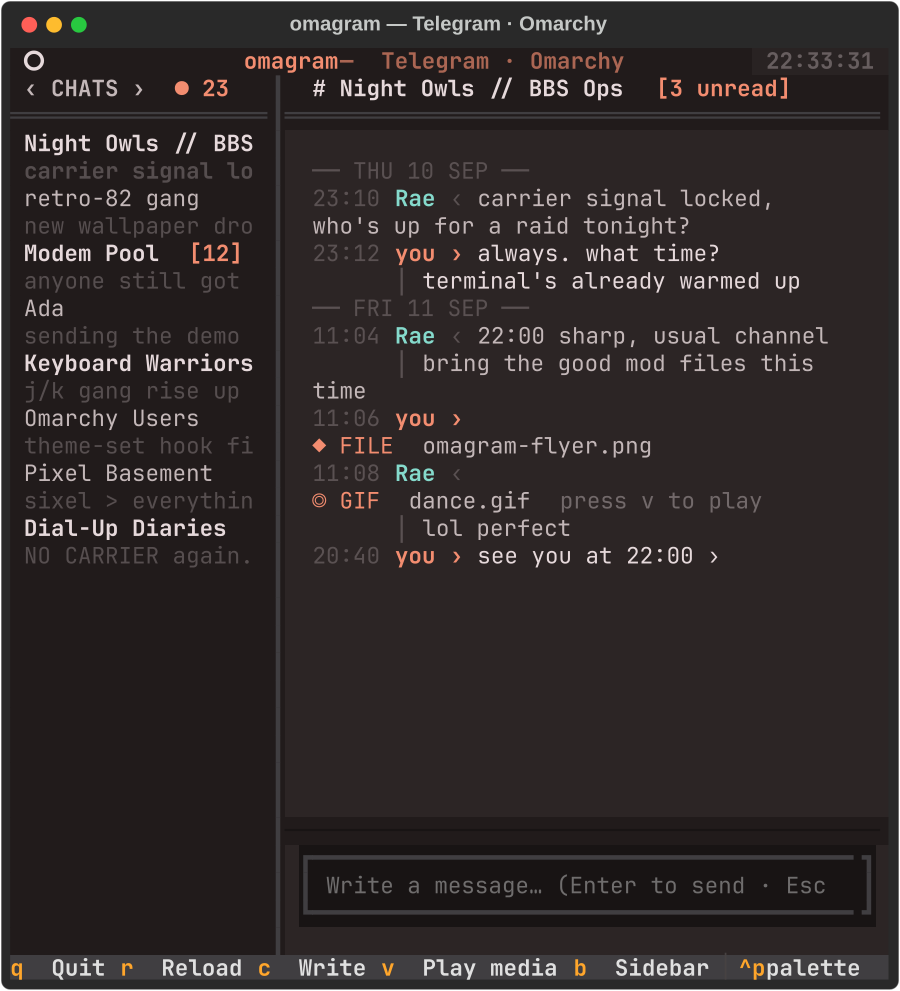
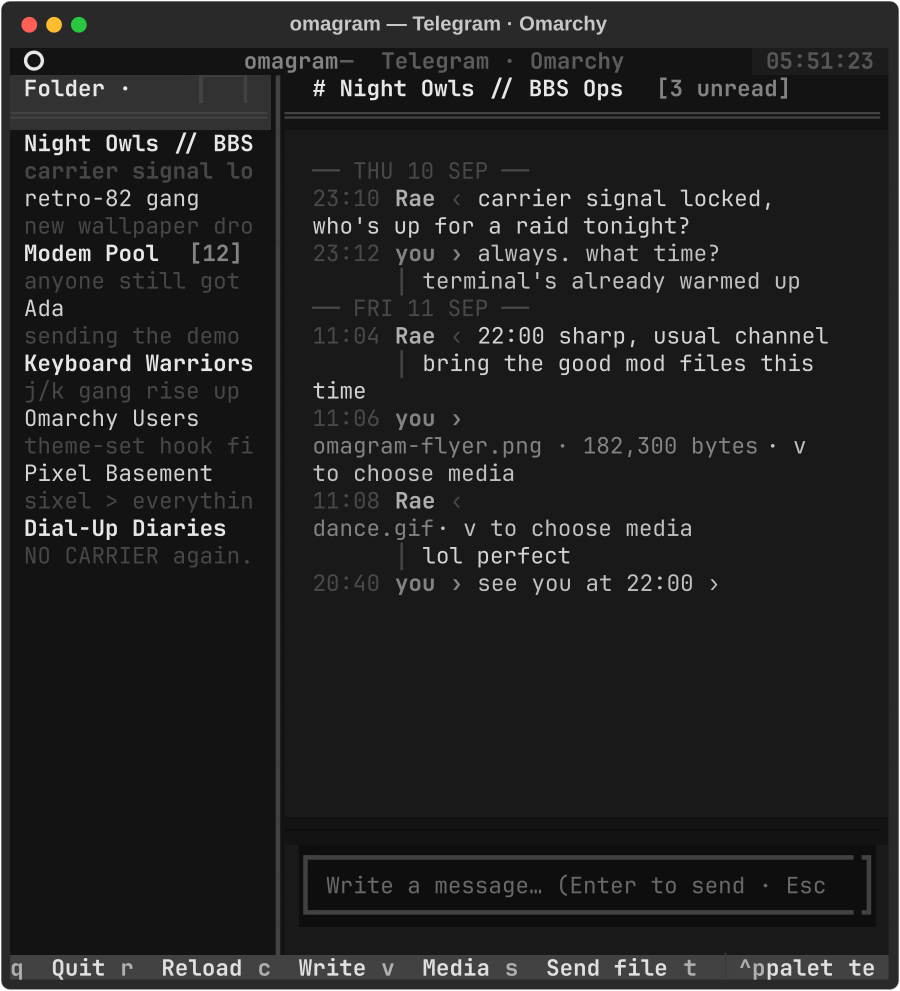
Fix tab chooser visibility and terminal text copying

diff --git a/telegram_tui/app.py b/telegram_tui/app.py
@@ -161,10 +161,28 @@ def build_css(p: dict[str, str]) -> str:
         border-bottom: double {p["selection"]};
     }}
 
-    #dialog-tabs {{
+    #dialog-tabs-wrap {{
         width: 100%;
         height: 2;
+        color: {p["bright_foreground"]};
+        background: {p["lighter_background"]};
         border-bottom: double {p["selection"]};
+        padding: 0 1;
+        align: left middle;
+    }}
+
+    #dialog-tabs-label {{
+        width: 1fr;
+        color: {p["bright_foreground"]};
+        text-style: bold;
+    }}
+
+    #dialog-tabs {{
+        width: 5;
+        height: 2;
+        border: tall {p["selection"]};
+        background: {p["lighter_background"]};
+        color: {p["bright_foreground"]};
     }}
 
     #dialogs {{
@@ -610,7 +628,7 @@ class TelegramTui(App[None]):
         Binding("b", "toggle_sidebar", "Sidebar", show=True),
         Binding("ctrl+b", "toggle_sidebar", "Sidebar", show=False),
         Binding("escape", "focus_chats", "Chats", show=True),
-        Binding("ctrl+c", "quit", "Quit", show=False),
+        Binding("ctrl+c", "copy_selection", "Copy", show=False),
         Binding("i", "show_info", "Info", show=False),
     ]
 
@@ -639,10 +657,12 @@ class TelegramTui(App[None]):
         yield Header(show_clock=True)
         with Horizontal(id="layout"):
             with Vertical(id="sidebar"):
-                yield Select(
-                    [("Chats", "all"), ("Private", "private"), ("Groups", "groups")],
-                    value="all", allow_blank=False, id="dialog-tabs"
-                )
+                with Horizontal(id="dialog-tabs-wrap"):
+                    yield Static("Chats", id="dialog-tabs-label")
+                    yield Select(
+                        [("Chats", "all"), ("Private", "private"), ("Groups", "groups")],
+                        value="all", allow_blank=False, id="dialog-tabs"
+                    )
                 yield ChatListView(id="dialogs")
             with Vertical(id="chat"):
                 yield Static("[dim]Select a chat · j/k to navigate · Enter to open[/dim]", id="chat-title")
@@ -800,6 +820,8 @@ class TelegramTui(App[None]):
         select = self.query_one("#dialog-tabs", Select)
         select.set_options([(tab.title, tab.key) for tab in tabs])
         select.value = self._active_tab if any(tab.key == self._active_tab for tab in tabs) else tabs[0].key
+        active = next(tab for tab in tabs if tab.key == select.value)
+        self.query_one("#dialog-tabs-label", Static).update(f"Folder · {active.title}")
 
     async def on_select_changed(self, event: Select.Changed) -> None:
         if event.select.id != "dialog-tabs" or event.value == Select.BLANK:
@@ -807,6 +829,9 @@ class TelegramTui(App[None]):
         if str(event.value) == self._active_tab:
             return
         self._active_tab = str(event.value)
+        self.query_one("#dialog-tabs-label", Static).update(
+            f"Folder · {next((tab.title for tab in self._dialog_tabs if tab.key == self._active_tab), self._active_tab)}"
+        )
         self.run_worker(self._reload_dialogs(), group="dialog-tab", exclusive=True, exit_on_error=False)
 
     def action_cycle_tab(self) -> None:
@@ -816,9 +841,31 @@ class TelegramTui(App[None]):
         index = keys.index(self._active_tab) if self._active_tab in keys else -1
         self._active_tab = keys[(index + 1) % len(keys)]
         self.query_one("#dialog-tabs", Select).value = self._active_tab
+        self.query_one("#dialog-tabs-label", Static).update(
+            f"Folder · {next(tab.title for tab in self._dialog_tabs if tab.key == self._active_tab)}"
+        )
 
     def action_show_info(self) -> None:
         self.push_screen(InfoScreen())
+
+    def action_copy_selection(self) -> None:
+        """Copy Textual input selections; terminal selections use native copy mode."""
+        selected = getattr(self.focused, "selected_text", "")
+        if not selected:
+            return
+        try:
+            copier = resolve_trusted_binary("wl-copy")
+            subprocess.run(
+                [copier, "--trim-newline"],
+                input=selected,
+                text=True,
+                check=True,
+                env=safe_subprocess_env(),
+            )
+        except (OSError, subprocess.SubprocessError) as exc:
+            logger.warning("clipboard copy failed: %s", exc)
+            return
+        self._set_status("Copied selection")
 
     def action_compose(self) -> None:
         if self.selected is None:

diff --git a/telegram_tui/cli.py b/telegram_tui/cli.py
@@ -134,7 +134,9 @@ async def run_app(api_id: int, api_hash: str) -> None:
                 )
             await perform_interactive_login(backend)
 
-        await TelegramTui(backend).run_async()
+        # Let the terminal own mouse selection, like Herdr, so marked text is
+        # copied automatically by the Omarchy terminal.
+        await TelegramTui(backend).run_async(mouse=False)
     finally:
         if backend.client.is_connected():
             await backend.disconnect()
@@ -169,4 +171,3 @@ def main() -> None:
 
 if __name__ == "__main__":
     main()
-
